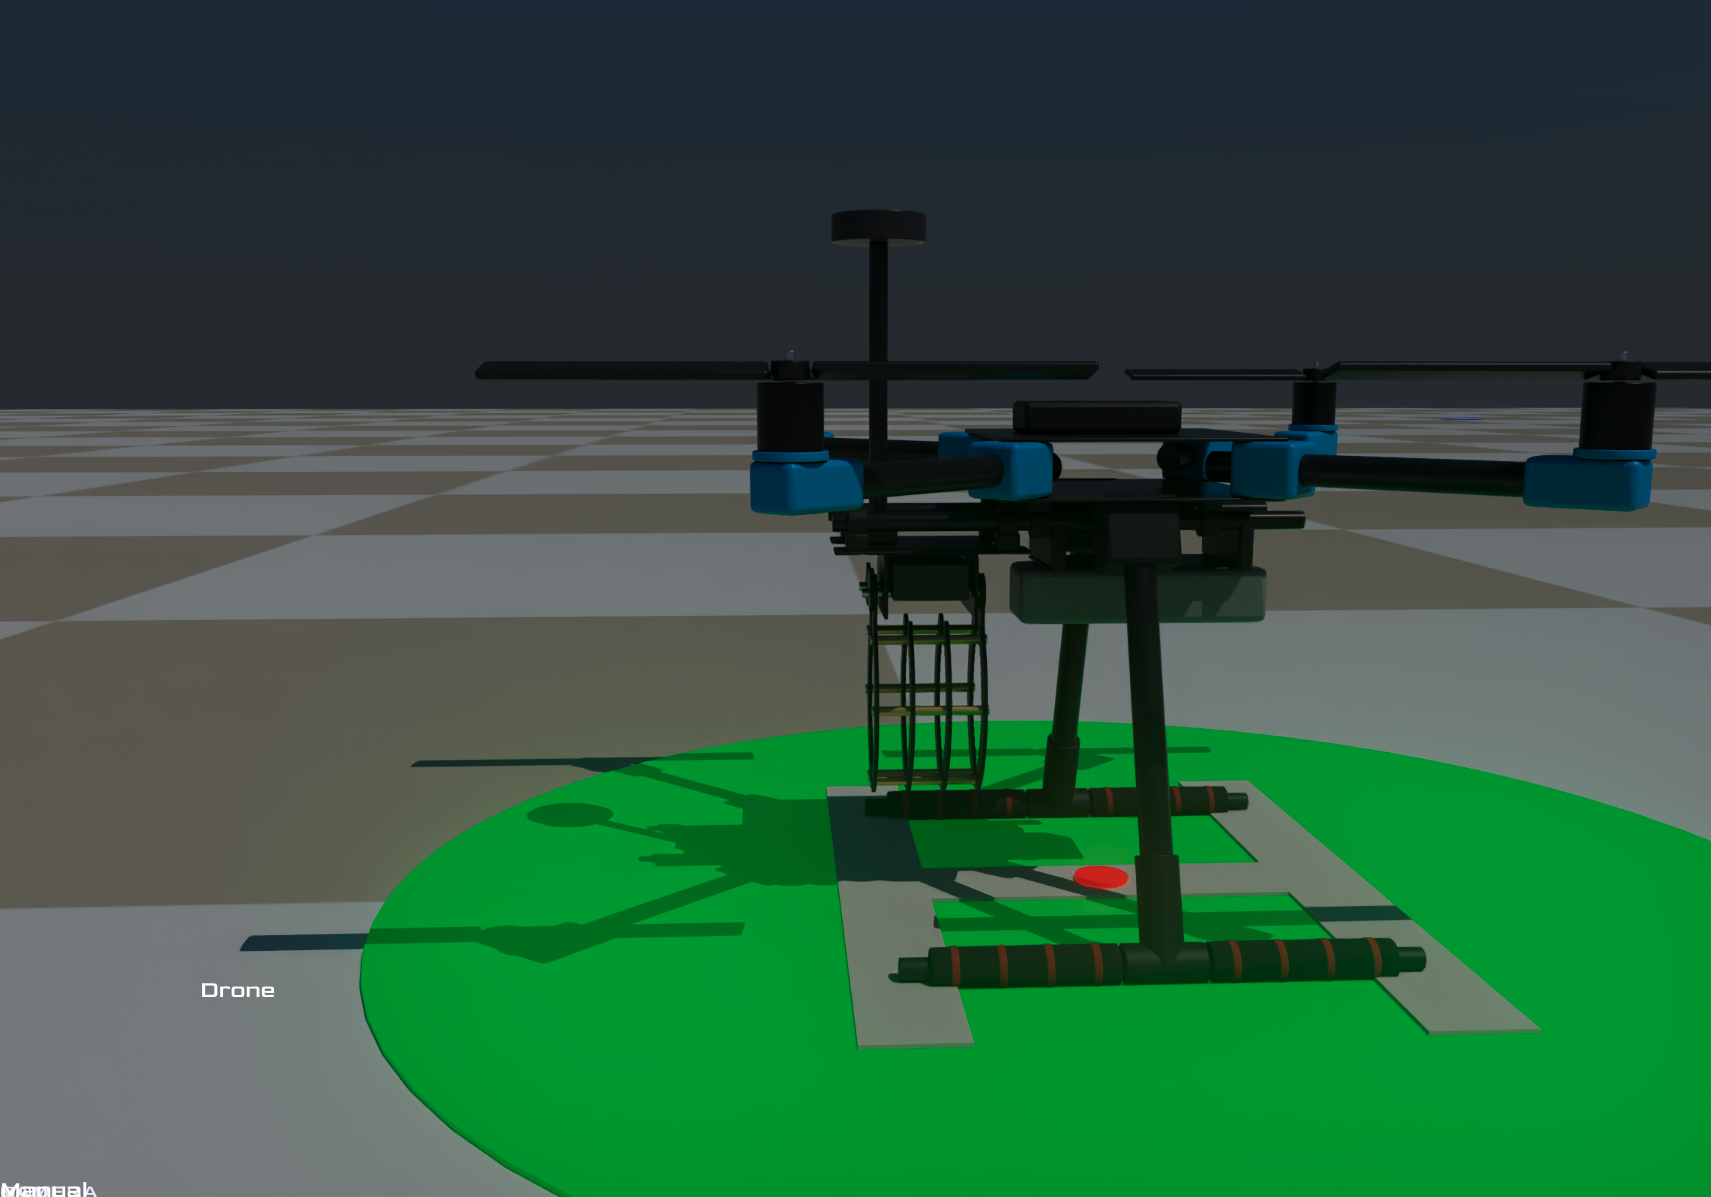
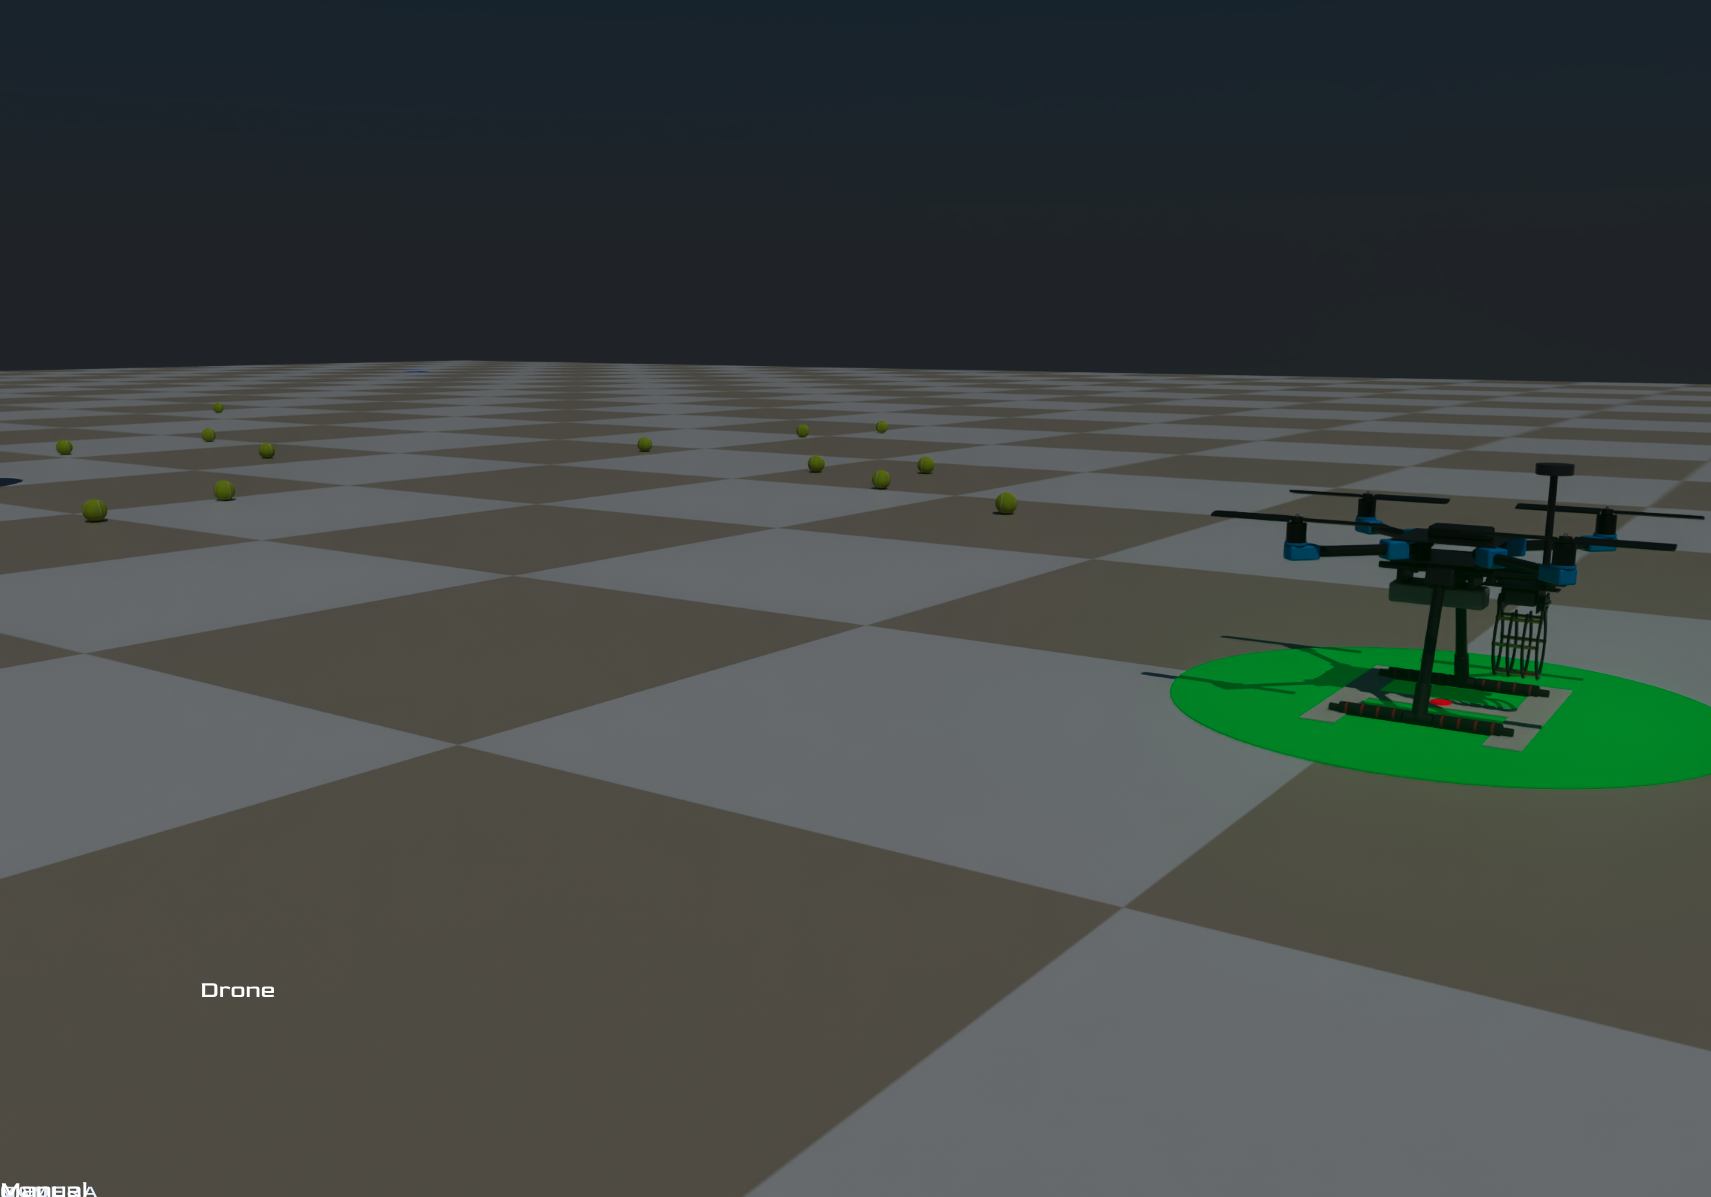
camera, object orientation adn control buttons change

diff --git a/LuckyEngine/Assets/Scripts/Client/Source/X500Flight.cs b/LuckyEngine/Assets/Scripts/Client/Source/X500Flight.cs
@@ -11,10 +11,10 @@ namespace Dronstein
 	/// and the left stick moves it, in one of two modes (x500_mode, B, switches):
 	/// - Loiter (default, ArduPilot's Loiter): the stick sets a speed (up to LOIT_SPEED); let go and it brakes and holds its spot.
 	/// - Manual (ArduPilot's AltHold): the stick sets the lean (up to ANGLE_MAX); let go and it levels but coasts.
-	/// Both hold the altitude. It starts disarmed: x500_arm (Y) arms and disarms it on the ground. x500_takeoff_rtl (Share)
+	/// Both hold the altitude. It starts disarmed: x500_arm (Y) arms and disarms it on the ground. x500_takeoff_rtl (Menu)
 	/// takes off to TKOFF_ALT on the ground, and in the air returns home (where it was armed): up to RTL_ALT, over, down at
-	/// LAND_SPEED, then it disarms. Share again, B or any stick or trigger takes RTL back. In the air keyboard Y flies the next
-	/// corner of the test square (calibration, the blue dots), holding the altitude, until B, Share or the sticks take over.
+	/// LAND_SPEED, then it disarms. Menu again or any stick or trigger takes RTL back (B does not touch RTL or takeoff). In the air keyboard Y flies the next
+	/// corner of the test square (calibration, the blue dots), holding the altitude, until B, Menu or the sticks take over.
 	/// The camera, the HUD and R (reset) are X500View's.
 	///
 	/// Two halves, both set by X500.param in the project folder:
@@ -39,7 +39,7 @@ namespace Dronstein
 		public static string ModeName => s_Rtl ? "RTL" : s_Takeoff ? "Takeoff" : Calibrating ? $"Calib {s_Calib + 1}/4" : Loiter ? "Loiter" : "Manual";
 		/// Flying keyboard Y's test square; the HUD shows it in yellow.
 		public static bool Calibrating => s_Calib >= 0;
-		static bool s_Rtl, s_Takeoff;  // Share's takeoff and return home, until done or taken back
+		static bool s_Rtl, s_Takeoff;  // Menu's takeoff and return home, until done or taken back
 		static int s_Calib = -1;       // the test square's corner being flown to, -1 = none
 		static readonly float[,] Waypoints = { { 10, 10 }, { 10, -10 }, { -10, -10 }, { -10, 10 } };  // (x, y), MuJoCo frame: the blue dots
 
@@ -303,14 +303,13 @@ namespace Dronstein
 				Log.Info($"X500Flight: going to waypoint {s_Calib} ({Waypoints[s_Calib, 0]}, {Waypoints[s_Calib, 1]})");
 			}
 			m_KeyY = keyY;
-			if (Pressed("x500_mode"))  // B: Loiter <-> Manual, and takes RTL / takeoff / calibration back
+			if (Pressed("x500_mode") && !s_Rtl && !s_Takeoff)  // B: Loiter <-> Manual, and takes calibration back; RTL and takeoff are Menu's
 			{
 				Loiter = !Loiter;
-				s_Rtl = s_Takeoff = false;
 				s_Calib = -1;
 				(m_PosX, m_PosY, m_VelX, m_VelY) = (x, y, vx, vy);  // Loiter starts from where it is, at the speed it has
 			}
-			if (Pressed("x500_takeoff_rtl") && Armed)  // Share: takeoff on the ground, return home (or take it back) in the air
+			if (Pressed("x500_takeoff_rtl") && Armed)  // Menu: takeoff on the ground, return home (or take it back) in the air
 			{
 				if (grounded) s_Takeoff = true;
 				else

diff --git a/LuckyEngine/Assets/Scripts/Client/Source/X500View.cs b/LuckyEngine/Assets/Scripts/Client/Source/X500View.cs
@@ -14,7 +14,8 @@ namespace Dronstein
 	/// Camera: drag with the right mouse button or move the right stick (camera_yaw / camera_pitch) to orbit; Q/E or
 	/// D-pad down/up (zoom_out / zoom_in) to zoom. C or camera_view (X) steps through the cameras: orbit the X500, follow
 	/// it (behind its tail, level), orbit the gripper (the entity tagged Claw, if there is one), and back. Each orbit keeps
-	/// its own zoom.
+	/// its own zoom. stick_gripper (A) switches the right stick's left / right (camera_yaw) between orbiting the
+	/// camera and closing / opening the gripper.
 	/// Attach to the entity tagged World (its MuJoCo scene holds the X500).
 	/// </summary>
 	public class X500View : Entity
@@ -43,6 +44,8 @@ namespace Dronstein
 		uint m_Body;
 		Entity m_Camera = null!, m_HudCameraLabel = null!, m_HudCamera = null!, m_HudModeLabel = null!, m_HudMode = null!;
 		Entity? m_HudArm, m_Claw;  // optional
+		Claw? m_ClawScript;        // m_Claw's script, for the stick that drives it
+		bool m_StickGripper;       // the right stick's left / right drives the gripper instead of orbiting the camera
 		bool m_Missing;  // a tagged entity wasn't found: the script does nothing
 		// Orbit camera: the camera sits on a sphere around the X500 and looks at its center.
 		float m_OrbitYaw, m_OrbitPitch, m_Distance;
@@ -102,6 +105,8 @@ namespace Dronstein
 			m_Flight ??= FindEntityByTag("HolybroX500V2")?.As<X500Flight>();  // here, not in OnCreate: its script may start later
 			if ((c && !m_KeyC) | (m_Flight?.Pressed("camera_view") ?? false)) NextView();  // | : Pressed runs every frame
 			m_KeyC = c;
+			bool stick = m_Flight?.Pressed("stick_gripper") ?? false;
+			if (stick && m_Claw != null) m_StickGripper = !m_StickGripper;  // A: the right stick's left / right, camera <-> gripper
 			if (m_View == 1) FollowCamera();
 			else OrbitCamera(MathF.Min(dt, 0.05f));
 			UpdateHud();
@@ -147,7 +152,13 @@ namespace Dronstein
 			float zoom = (Input.IsKeyDown(KeyCode.E) ? 1f : 0f) - (Input.IsKeyDown(KeyCode.Q) ? 1f : 0f);
 			if (m_Flight != null)
 			{
-				m_OrbitYaw -= m_Flight.Axis("camera_yaw") * CameraStickSpeed * dt;
+				float side = m_Flight.Axis("camera_yaw");
+				if (m_StickGripper)  // this stick is the gripper's now: right opens it, left closes it
+				{
+					m_ClawScript ??= m_Claw?.As<Claw>();  // here, not in OnCreate: its script may start later
+					m_ClawScript?.Drive(-side, dt);
+				}
+				else m_OrbitYaw -= side * CameraStickSpeed * dt;
 				m_OrbitPitch += m_Flight.Axis("camera_pitch") * CameraStickSpeed * dt;
 				zoom += (m_Flight.Held("zoom_out") ? 1f : 0f) - (m_Flight.Held("zoom_in") ? 1f : 0f);
 			}

diff --git a/LuckyEngine/Assets/Scripts/Client/Source/Claw.cs b/LuckyEngine/Assets/Scripts/Client/Source/Claw.cs
@@ -21,7 +21,7 @@ namespace Dronstein
 		public float Speed = 180f;
 
 		Entity? m_Left, m_Right;
-		float m_Angle, m_Target;  // degrees open: 0 closed
+		float m_Angle, m_Target;  // degrees open: 0 closed; starts fully open
 		bool m_KeyO;
 
 		[Button("Open")]
@@ -30,10 +30,14 @@ namespace Dronstein
 		[Button("Close")]
 		void Close() => m_Target = 0f;
 
+		// The gripper stick (X500View): stick > 0 opens, < 0 closes, at Speed at full stick.
+		public void Drive(float stick, float dt) => m_Target = Math.Clamp(m_Target + stick * Speed * dt, 0f, OpenAngle);
+
 		protected override void OnCreate()
 		{
 			m_Left = FindEntityByTag("ClawFingerL");
 			m_Right = FindEntityByTag("ClawFingerR");
+			m_Angle = m_Target = OpenAngle;
 			if (m_Left == null || m_Right == null)
 				Log.Error("Claw: needs children tagged ClawFingerL and ClawFingerR");
 		}

diff --git a/README.md b/README.md
@@ -15,9 +15,10 @@ A Holybro X500 V2 with a 4S battery (1.36 kg) flies like a stock ArduPilot setup
 | LT / RT | Climb / descend (2.5 m/s) |
 | LB / RB | Turn left / right |
 | Y | Arm / disarm, on the ground only |
-| B | Switch Loiter / Manual (also takes RTL back) |
-| Share | Take off to 0.5 m on the ground; in the air, return home (RTL). Press again to take RTL back. (A is the same button as Share on this controller.) |
-| Right stick | Orbit the camera |
+| B | Switch Loiter / Manual (does nothing during takeoff and RTL) |
+| Menu | Take off to 0.5 m on the ground; in the air, return home (RTL). Press again to take RTL back. |
+| A or Share | Switch the right stick's left / right between orbiting the camera and driving the gripper. (Lucky reports Share as the same button as A, so they can't have different jobs.) |
+| Right stick | Left / right: orbit the camera, or after A, right opens and left closes the gripper. Up / down: tilt the camera |
 | D-pad up / down | Zoom in / out |
 | X | Next camera: orbit the X500, follow it (behind its tail), orbit the gripper |
 
@@ -45,7 +46,7 @@ Both hold the altitude.
 
 It starts **disarmed**. Y arms it (props idle). **RTL** climbs to 3 m, flies back over the spot where it was armed, comes down at 0.5 m/s and disarms when it lands; B or any stick or trigger takes it back. The props spin with their motors' thrust.
 
-**Calibration:** in the air, each press of keyboard Y flies it to the next blue dot of the 20 m test square ((10, 10), (10, -10), (-10, -10), (-10, 10)) at its altitude, where it holds. MODE shows **Calib 1/4** in yellow. B, Share or any stick or trigger takes it back.
+**Calibration:** in the air, each press of keyboard Y flies it to the next blue dot of the 20 m test square ((10, 10), (10, -10), (-10, -10), (-10, 10)) at its altitude, where it holds. MODE shows **Calib 1/4** in yellow. B, Menu or any stick or trigger takes it back.
 
 ## On screen
 Top right: **CAMERA** (X500 V2, Follow or Gripper), and **MODE** (Loiter, Manual, Takeoff, RTL or Calib n/4 in yellow) with **Armed** (green) or **Disarmed** (red) left of it.
@@ -61,7 +62,7 @@ Everything about it is in `LuckyEngine/X500.param`: the drone (`SIM_*`: thrust, 
 ## Latest changes
 - **Y calibration is back:** in the air, keyboard Y flies the X500 around the blue test square, one corner per press (Calib n/4, yellow).
 - **X500 only:** the Skydio X2 with its SO-100 arm, its autonomous picking and the Tuning panel are gone. The controller always flies the X500; LT climbs and RT descends.
-- **X500 arming, takeoff and RTL:** Y arms / disarms, Share takes off (0.5 m) or returns home (RTL), B switches Loiter / Manual; the screen shows Armed / Disarmed next to MODE, and the props spin.
+- **X500 arming, takeoff and RTL:** Y arms / disarms, Menu takes off (0.5 m) or returns home (RTL), B switches Loiter / Manual; the screen shows Armed / Disarmed next to MODE, and the props spin.
 - **X500 Loiter mode:** let go and it stops. Yawing doesn't bob it up and down, it idles on the ground, and its drag is set only by `X500.param`.
 - **Holybro X500 V2 flies:** physics and gains are in `LuckyEngine/X500.param`.
 - **Trash can can be moved:** a free, light (~1.1 kg) aluminium can.

diff --git a/AGENTS.md b/AGENTS.md
@@ -2,7 +2,7 @@
 
 ## Git
 - Never run git on the user's checkout or remote: no add, commit, branch, push, stash or merge. The user handles git.
-- Agents may work in their own worktrees under `.claude/worktrees/` (ignored by git). Commit there if needed, but never push, and get the changes into the user's checkout as plain file edits.
+- Never commit, anywhere, not even in a worktree. Worktrees under `.claude/worktrees/` are scratch copies, fully isolated from the user's repo and remote: edit files there, copy them into the user's checkout as plain files, and remove the worktree when done (no commits, no branches left behind).
 
 ## Lucky Engine
 - Work through the Lucky MCP (`lucky`, http://127.0.0.1:19331/mcp) from the start. Don't hand-edit Lucky's own files (`AssetRegistry.hzr`, `.hmaterial` handles, `.hscene`) or invent asset handles. If no tool fits, stop and ask.
@@ -23,6 +23,7 @@
 - Tiled floor: use a Plane (`GroundSurface`), not a Cube (bad top-face UVs). `Ground` is collider only.
 - Use `create_entity` + `add_component` instead of `create_game_object` (which writes a junk `<Name>_Material.hmaterial`).
 - A movable object made of several colliders (e.g. `TrashCan`): put a free `MujocoJoint` **and a collider** on an unscaled parent, then parent the pieces under it; they become one rigid body. A joint on a parent with no collider is ignored (stays world/static).
+- Xbox controller in Lucky (checked in its log): A and Share both arrive as raw button 0, so they can't be bound to different actions; B = 1, X = 3, Y = 4, View = 10, Menu = 11. Don't promise a separate Share binding.
 - A loaded material is cached: editing its `.hmaterial` won't reload it. Write it once under a new name before first load.
 
 ## Keep it KISS
@@ -34,3 +35,7 @@
 
 ## Where to make changes
 - When you are done, make the changes in the user's main checkout (`~/dev/dronstein`), not only in a worktree. The user runs the editor from there, so worktree-only changes never reach it.
+
+## Done means visible
+- Never say a change is done from file edits or "scene saved" alone. Exit Play, build, enter Play, take `capture_viewport_screenshot` and check the change is visible in it (compare with a screenshot from before the change when it is visual). If you can't see it, it isn't done: say so.
+- Rotating the physics body `x500v2` turns the model with it, so the nose (body +x = model +x, the GPS and claw side) stays where it was relative to the model. To turn the model relative to the flight direction (and the follow camera), rotate the mesh child `HolybroX500V2` (Rotation `90 0 180` flips it), not the body.
